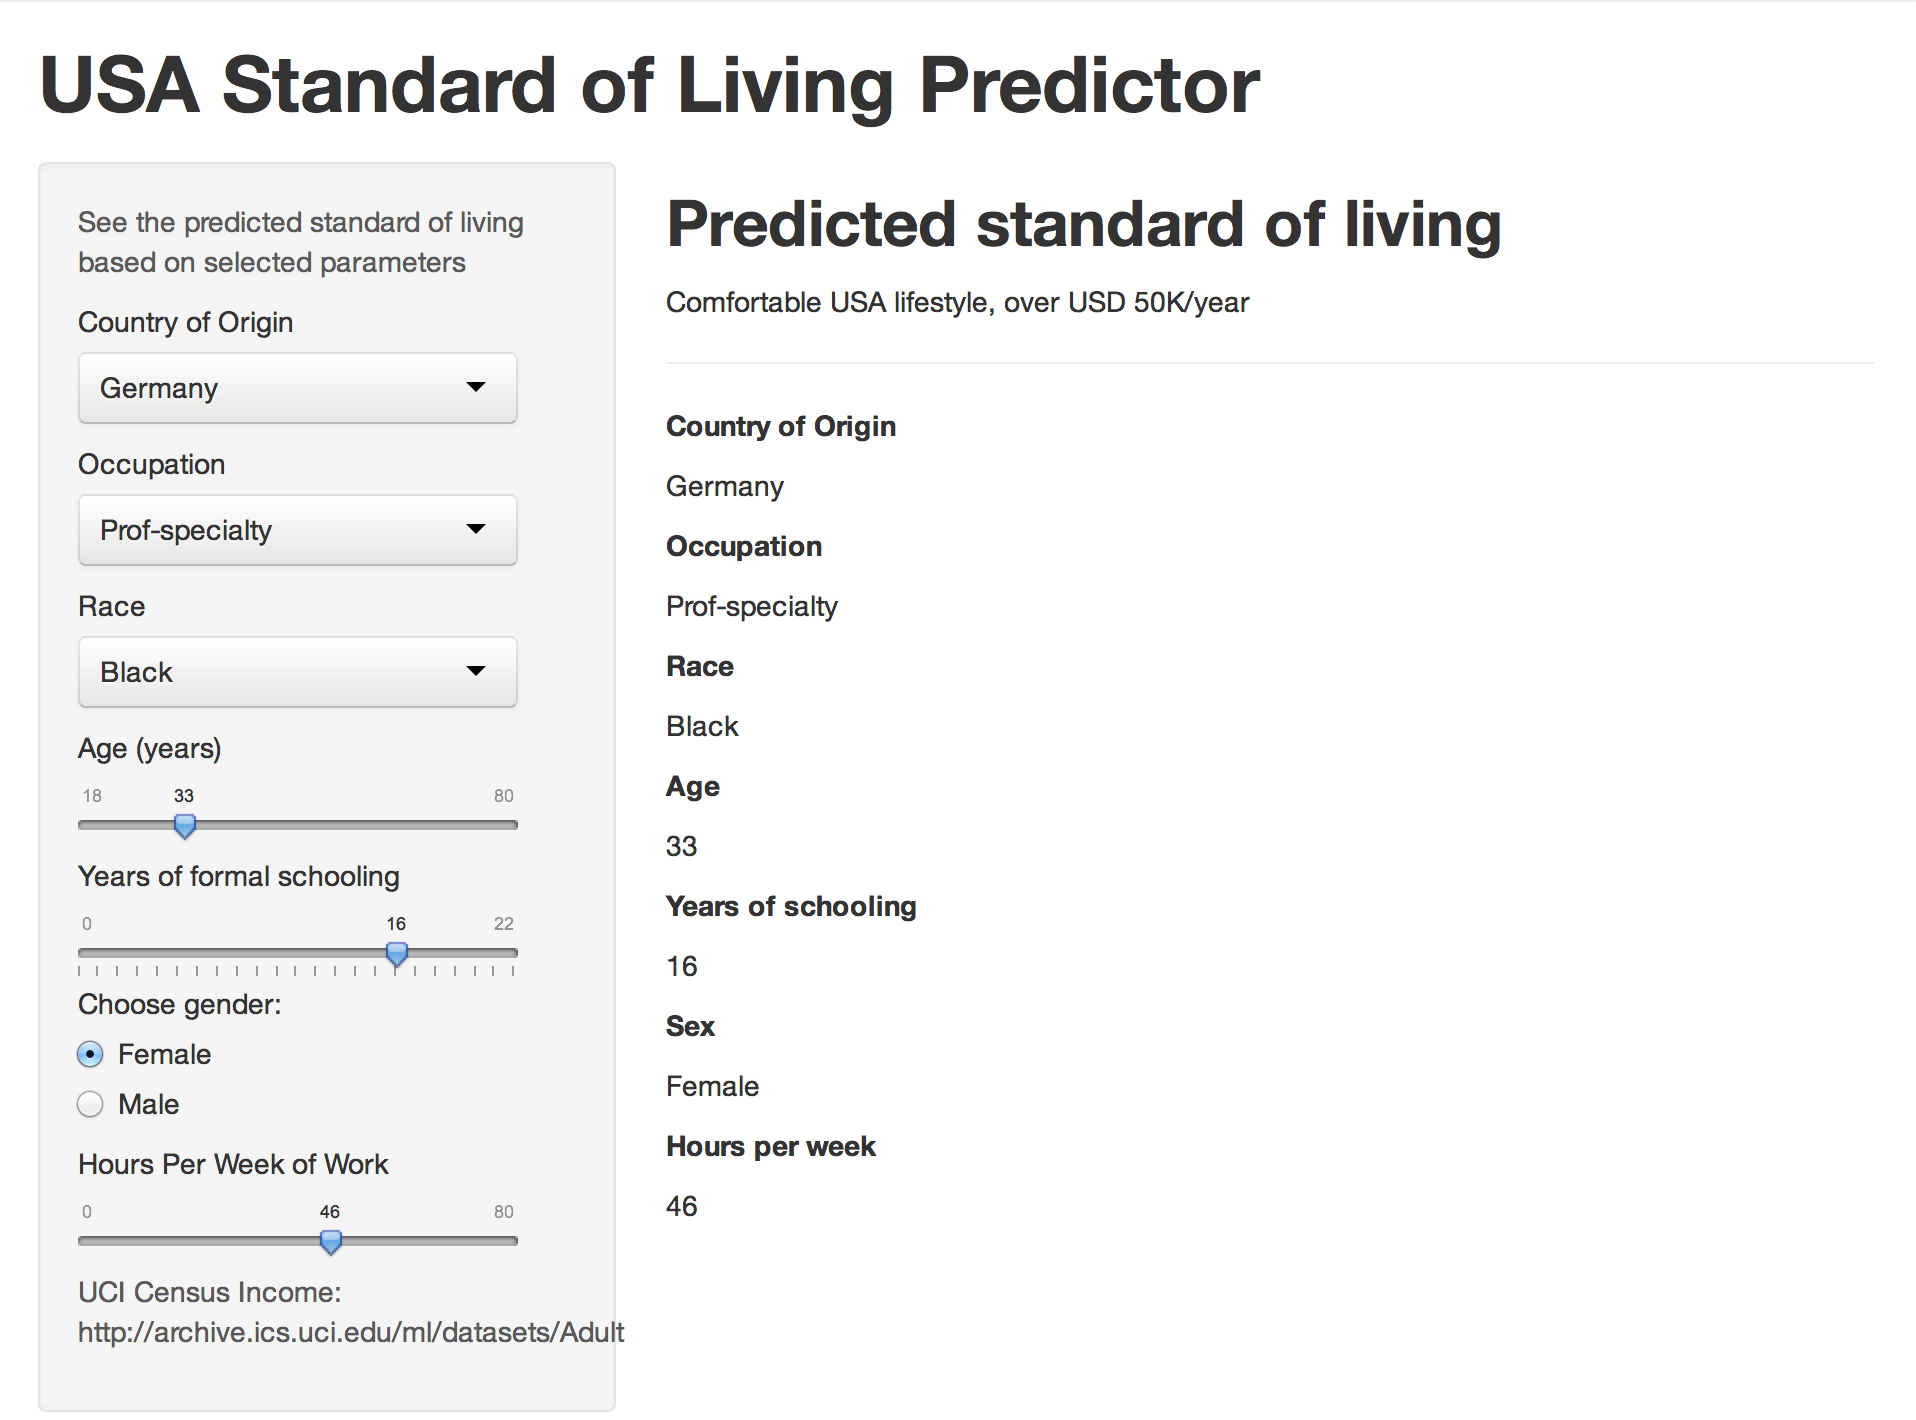
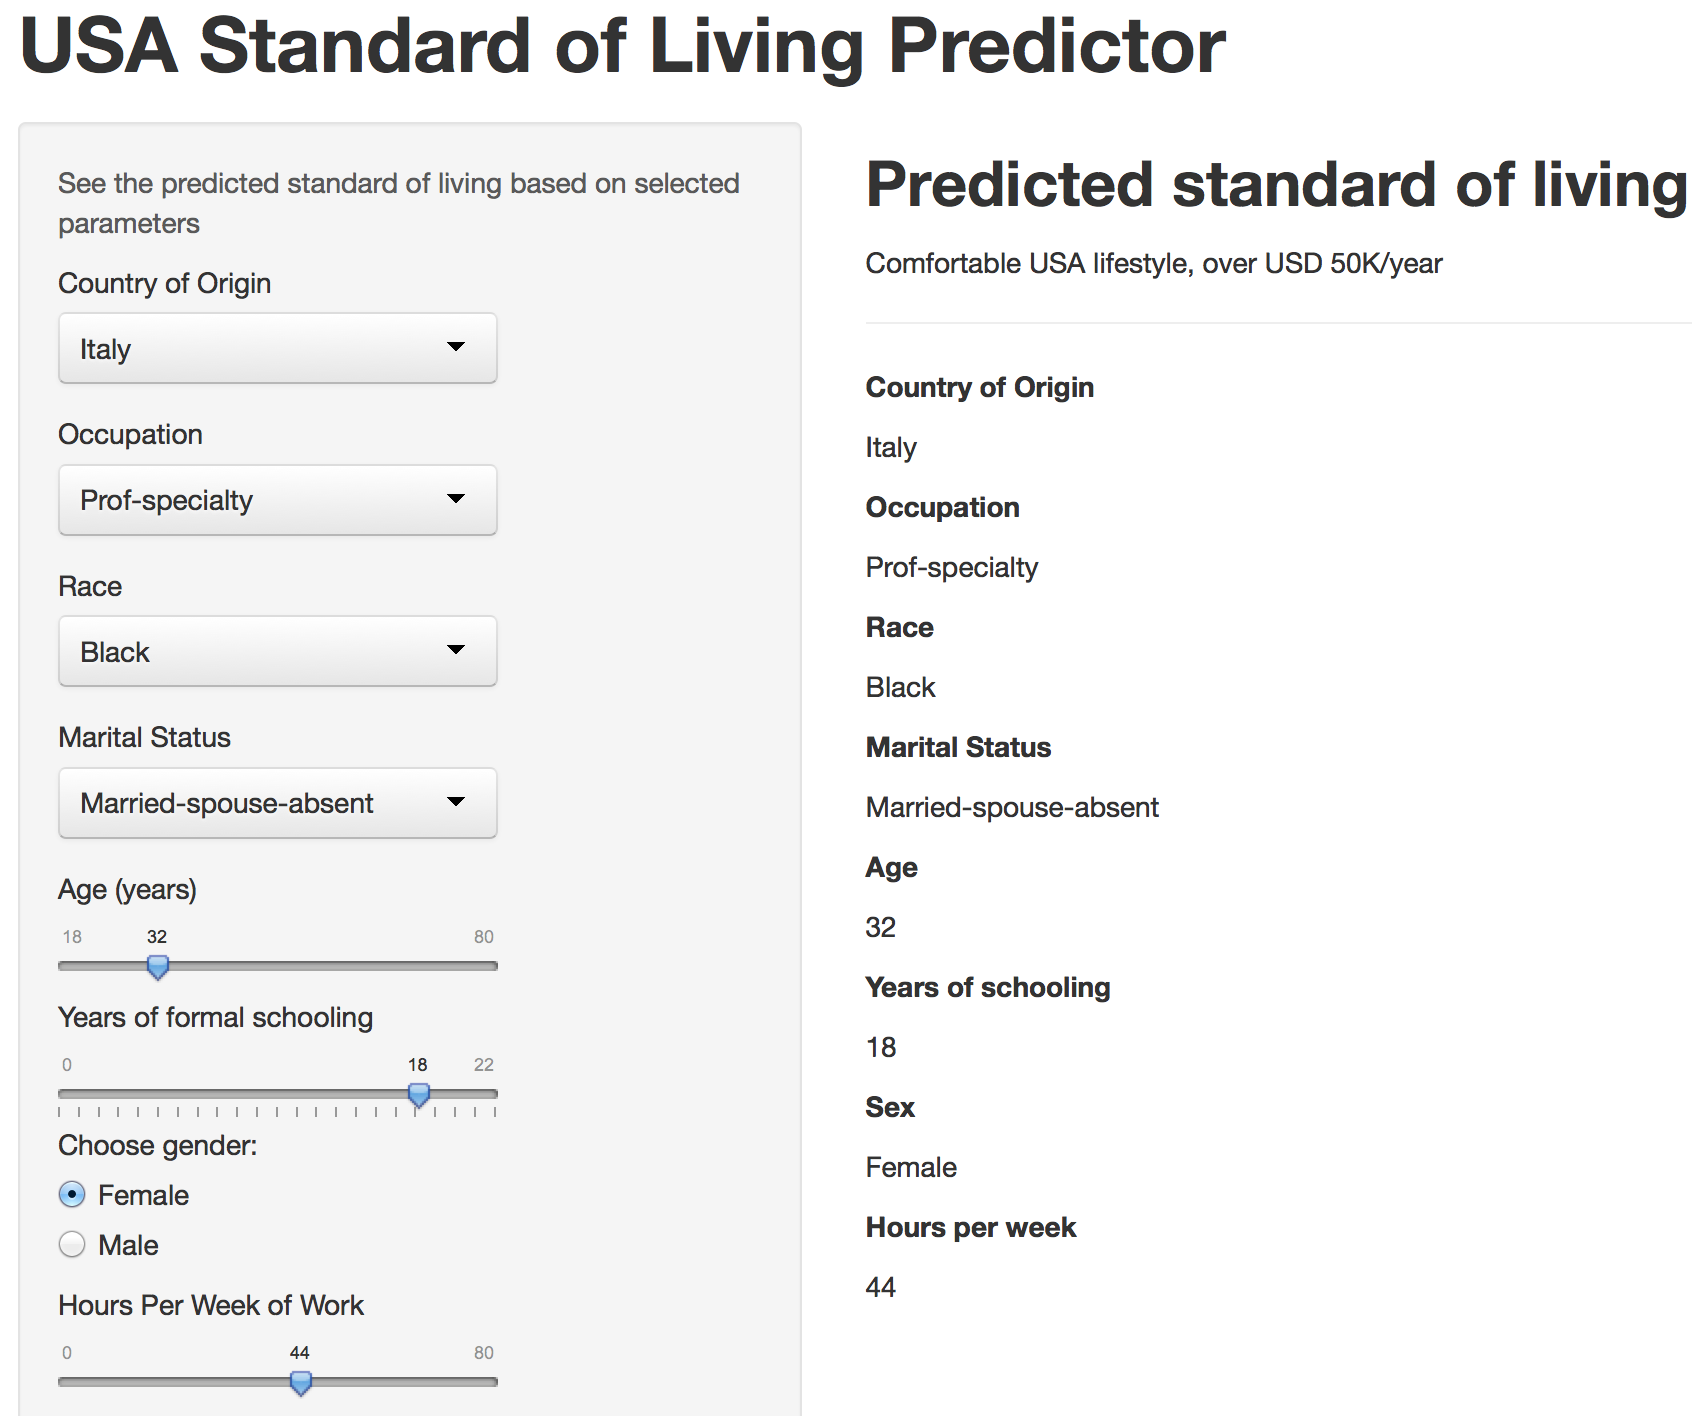
Presentation: marital status predictor
New marital status predictor, update screenshot and sample command line
prediction

diff --git a/adult-income.md b/adult-income.md
@@ -34,16 +34,16 @@ modFit <- train(income ~ ., data = adult.sample, method = "rf", trControl = trai
 - The data has many other characteristics about the individual; the caret system learns the relationship between the _predictors_ (these characteristics) and the _outcome_ (standard of living).
 - The application then uses the supplied information about a real or hypothetic individual to predict standard of living.
 
-Sample prediction
+Sample prediction (command line)
 ========================================================
 
 
 
 ```r
 modFit <- readRDS("modFit.rds") #load the precomputed model from file
-userData <- data.frame(33, 16, " Prof-specialty", " Black", " Female", 46, " Germany")
-names(userData) <- c("age", "education-num", "occupation", "race", "sex", "hours per week", "nativeCountry")
-answer[predict(modFit, userData)]
+userData <- data.frame(32, 18, " Married-spouse-absent", " Prof-specialty", " Black", " Female", 44, " Italy")
+names(userData) <- c("age", "education-num", "maritalStatus", "occupation", "race", "sex", "hoursPerWeek", "countryOrigin")
+      answer[predict(modFit, userData)]
 ```
 
 ```
